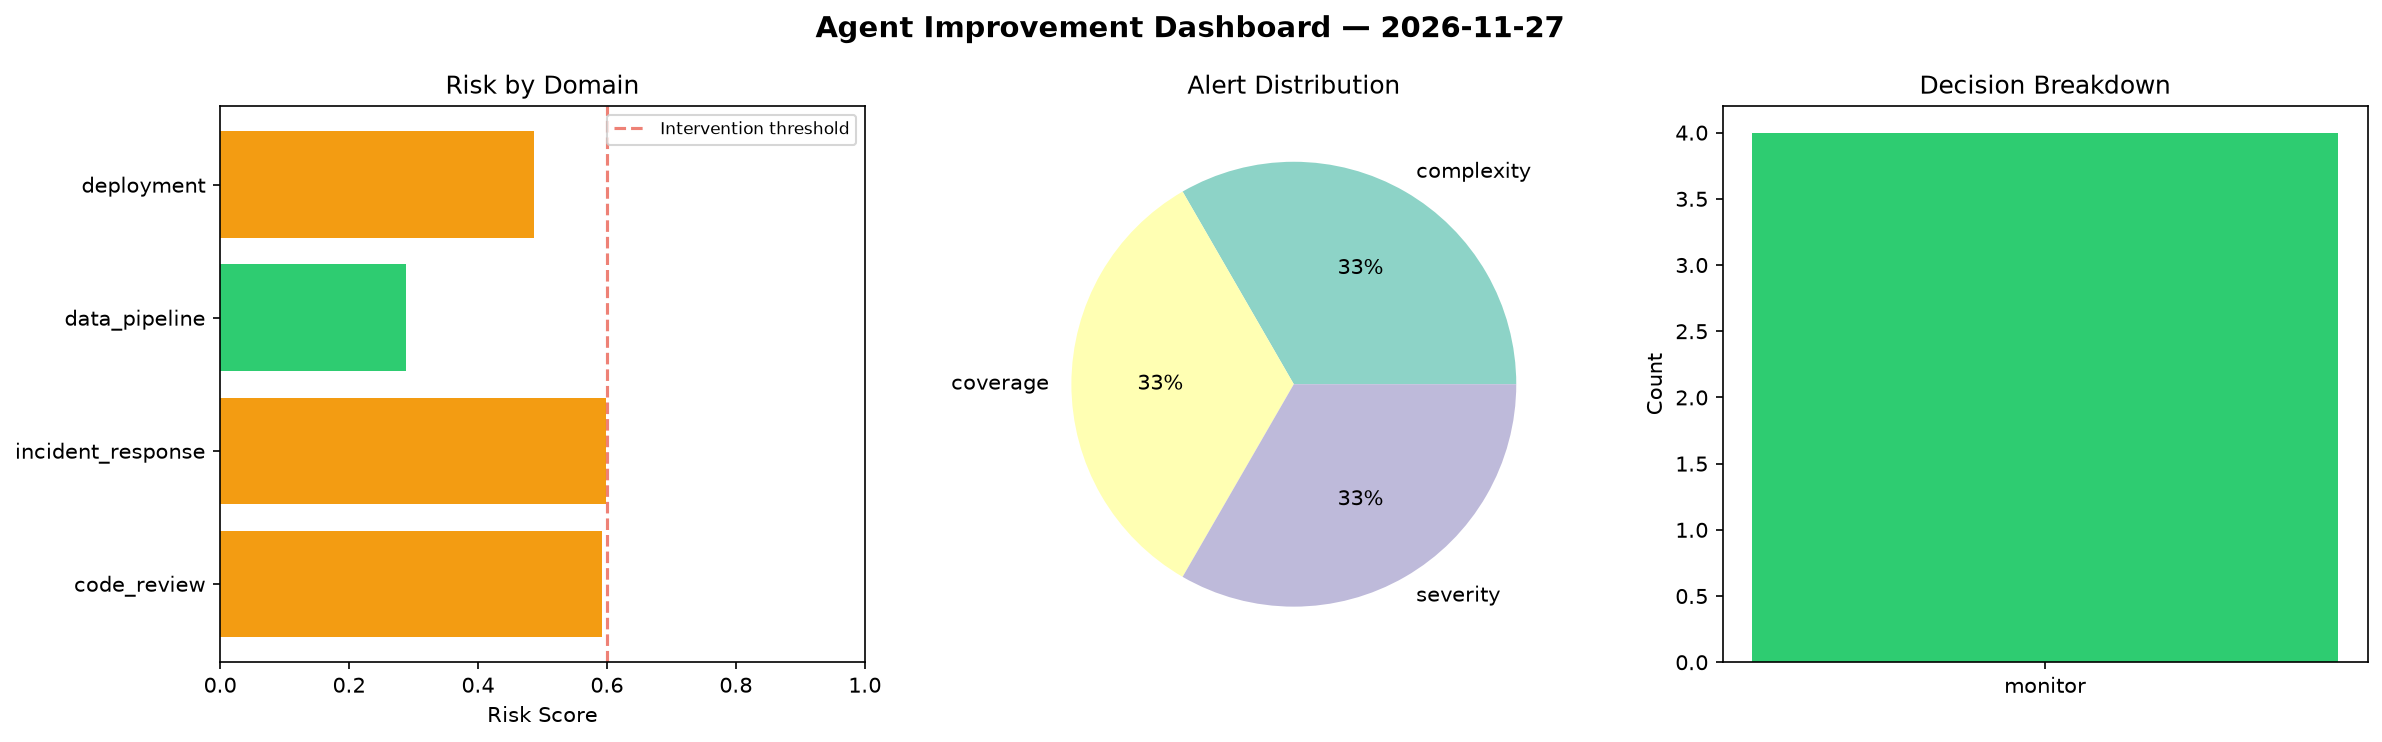
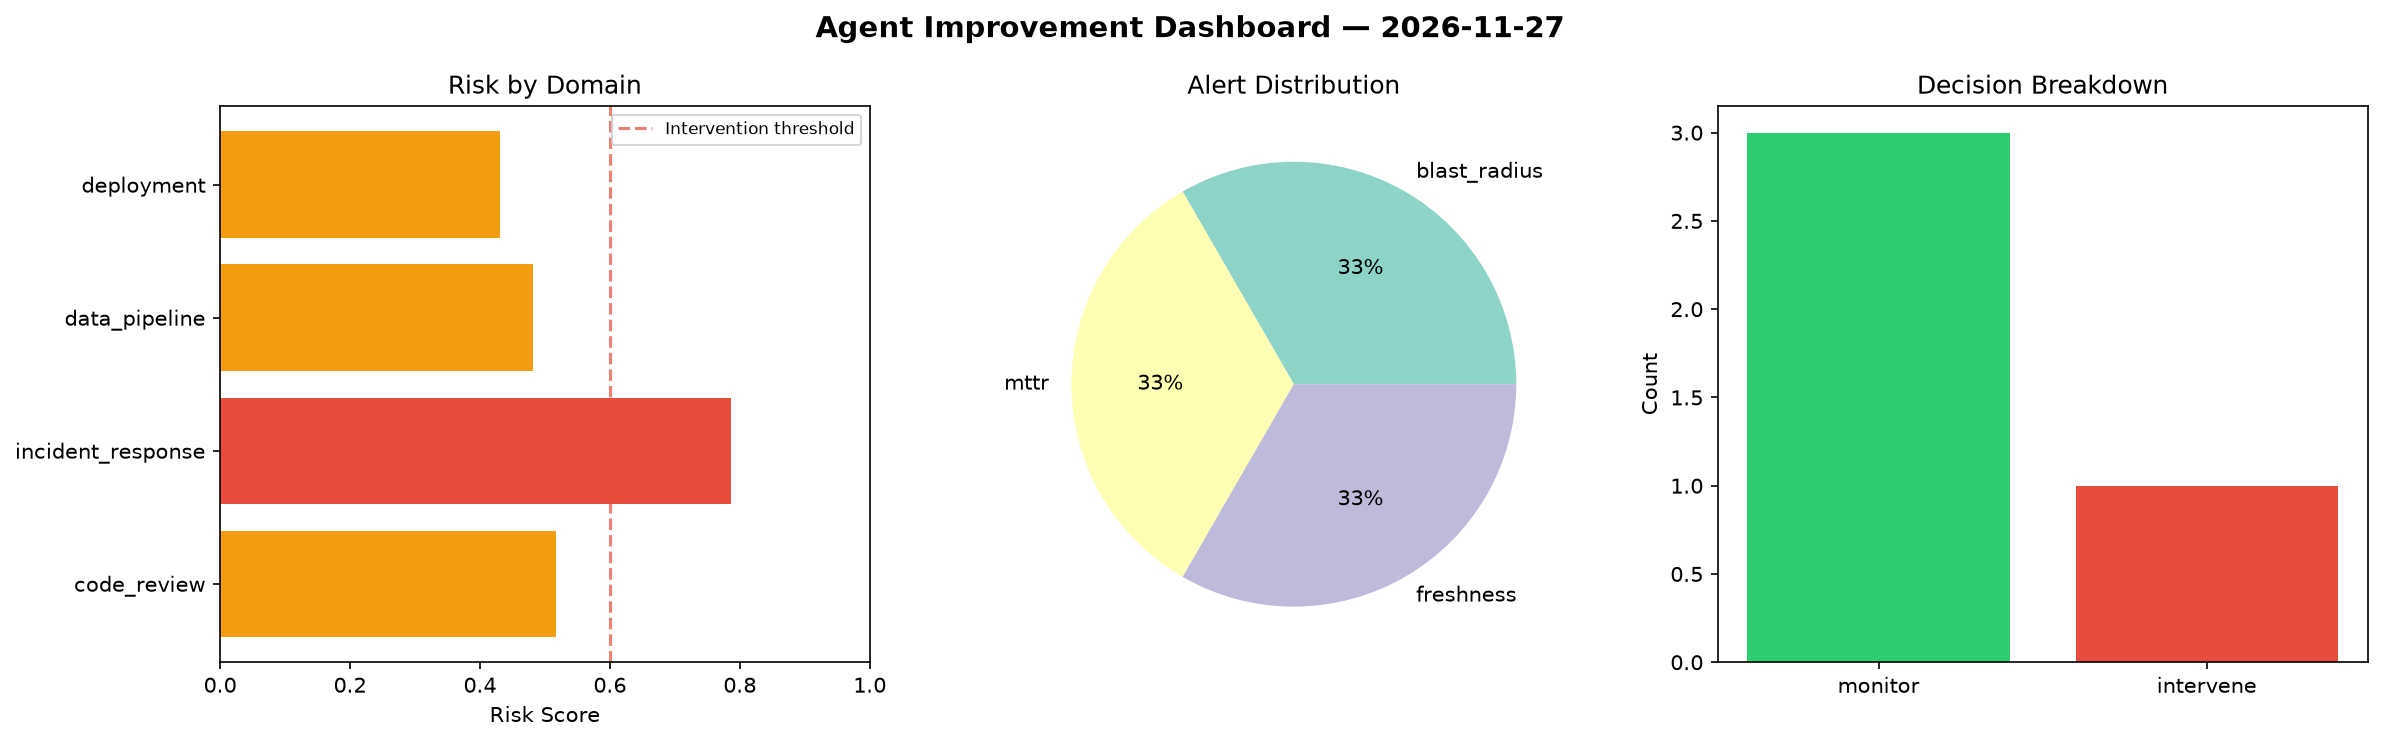
agent-improvement: daily cycle 2026-11-27T10:48

diff --git a/logs/2026-11-27.md b/logs/2026-11-27.md
@@ -1,6 +1,6 @@
 # Agent Improvement Report — 2026-11-27
 
-**Cycle ID:** `fa0a09f3` | **Avg Risk:** 0.492 | **Interventions:** 0/4
+**Cycle ID:** `4c3015dd` | **Avg Risk:** 0.5539 | **Interventions:** 1/4
 
 ![Dashboard](2026-11-27_dashboard.png)
 
@@ -10,18 +10,18 @@
 
 | Domain | Risk Score | Decision | Alerts |
 |--------|-----------|----------|--------|
-| code_review | 0.5929 | monitor | complexity, coverage |
-| incident_response | 0.5993 | monitor | severity |
-| data_pipeline | 0.2887 | monitor | none |
-| deployment | 0.4872 | monitor | none |
+| code_review | 0.5163 | monitor | none |
+| incident_response | 0.7864 | intervene | blast_radius, mttr |
+| data_pipeline | 0.4818 | monitor | freshness |
+| deployment | 0.4313 | monitor | none |
 
 ## Delta vs Yesterday
 
 | Domain | Today | Yesterday | Change |
 |--------|-------|-----------|--------|
-| code_review | 0.5929 | 0.2913 | 📈 103.5% |
-| incident_response | 0.5993 | 0.6158 | 📉 -2.7% |
-| data_pipeline | 0.2887 | 0.0614 | 📈 370.2% |
-| deployment | 0.4872 | 0.4554 | 📈 7.0% |
+| code_review | 0.5163 | 0.2913 | 📈 77.2% |
+| incident_response | 0.7864 | 0.6158 | 📈 27.7% |
+| data_pipeline | 0.4818 | 0.0614 | 📈 684.7% |
+| deployment | 0.4313 | 0.4554 | 📉 -5.3% |
 
 **Refinement:** `{'adjustment': 'maintain', 'trend': 'improving', 'window': 4}`
